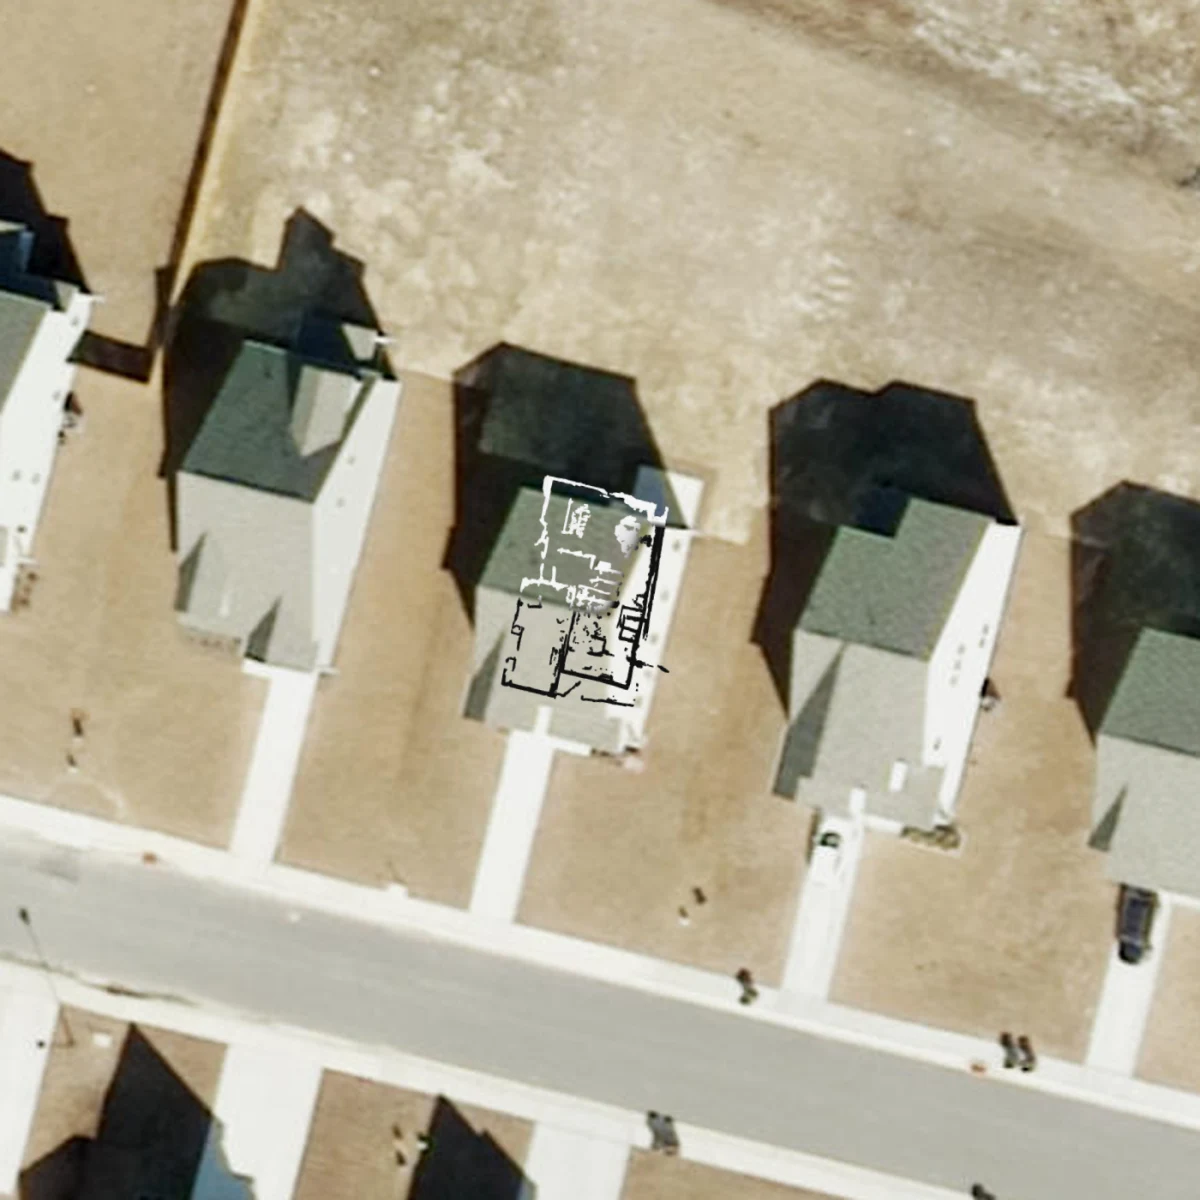
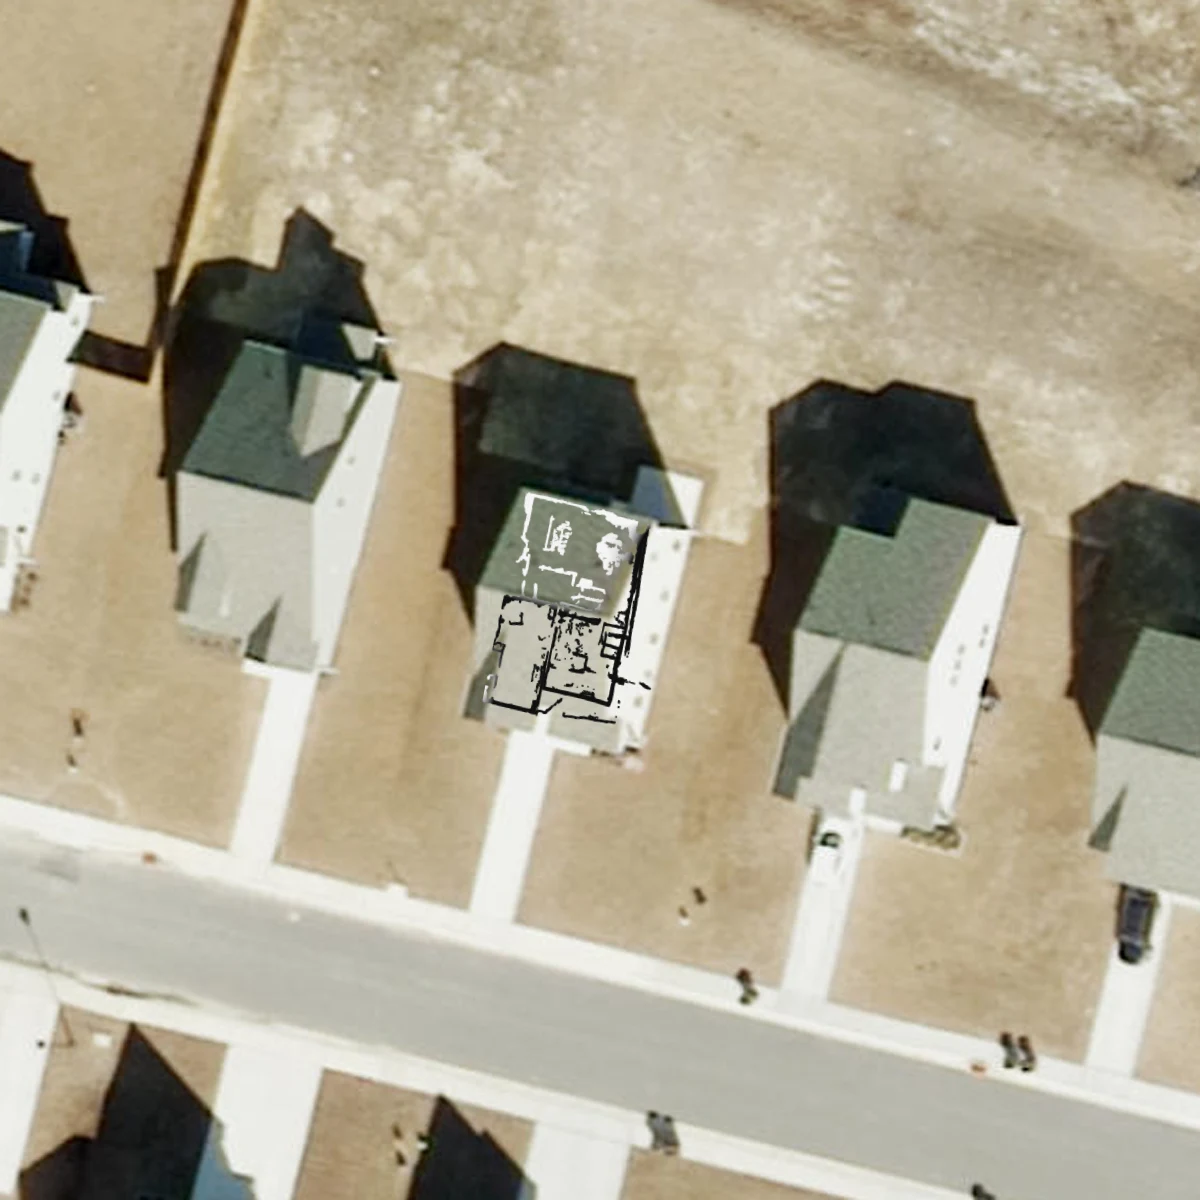
fix(site): correct the overlay alignment on the ATAK imagery
Noah spotted the output sitting off the house in the hero shot -- its right wall
was out over the driveway and the whole thing rode high.

Cause: when I rebuilt the composites at three zoom levels I dropped the placement
Noah had hand-tuned earlier (dx -1.0 m, dy +1.0 m) and used a bare centre-on-
surveyed-midpoint instead. The offsets existed for a reason and I discarded them
without noticing.

Swept six candidates against the real imagery rather than guessing. The verified
placement is 13.24 m long side, dx -1.0, dy +1.0, rot 11 deg CW -- which is also
the most defensible: 13.24 m is the LiDAR long side and the offsets are Noah's own
tuning. Larger variants (14.4 m, 15 m) overshoot onto the neighbouring roof and
the walkway.

Both hero (26 m) and context (70 m) regenerated from the same constants so they
cannot drift apart again.

Changed region(s): [[0.4008, 0.4008, 0.555, 0.6167]]

diff --git a/blog/index.html b/blog/index.html
@@ -131,6 +131,8 @@
           
           
           
+          
+          
           </div>
         </div>
       </section>